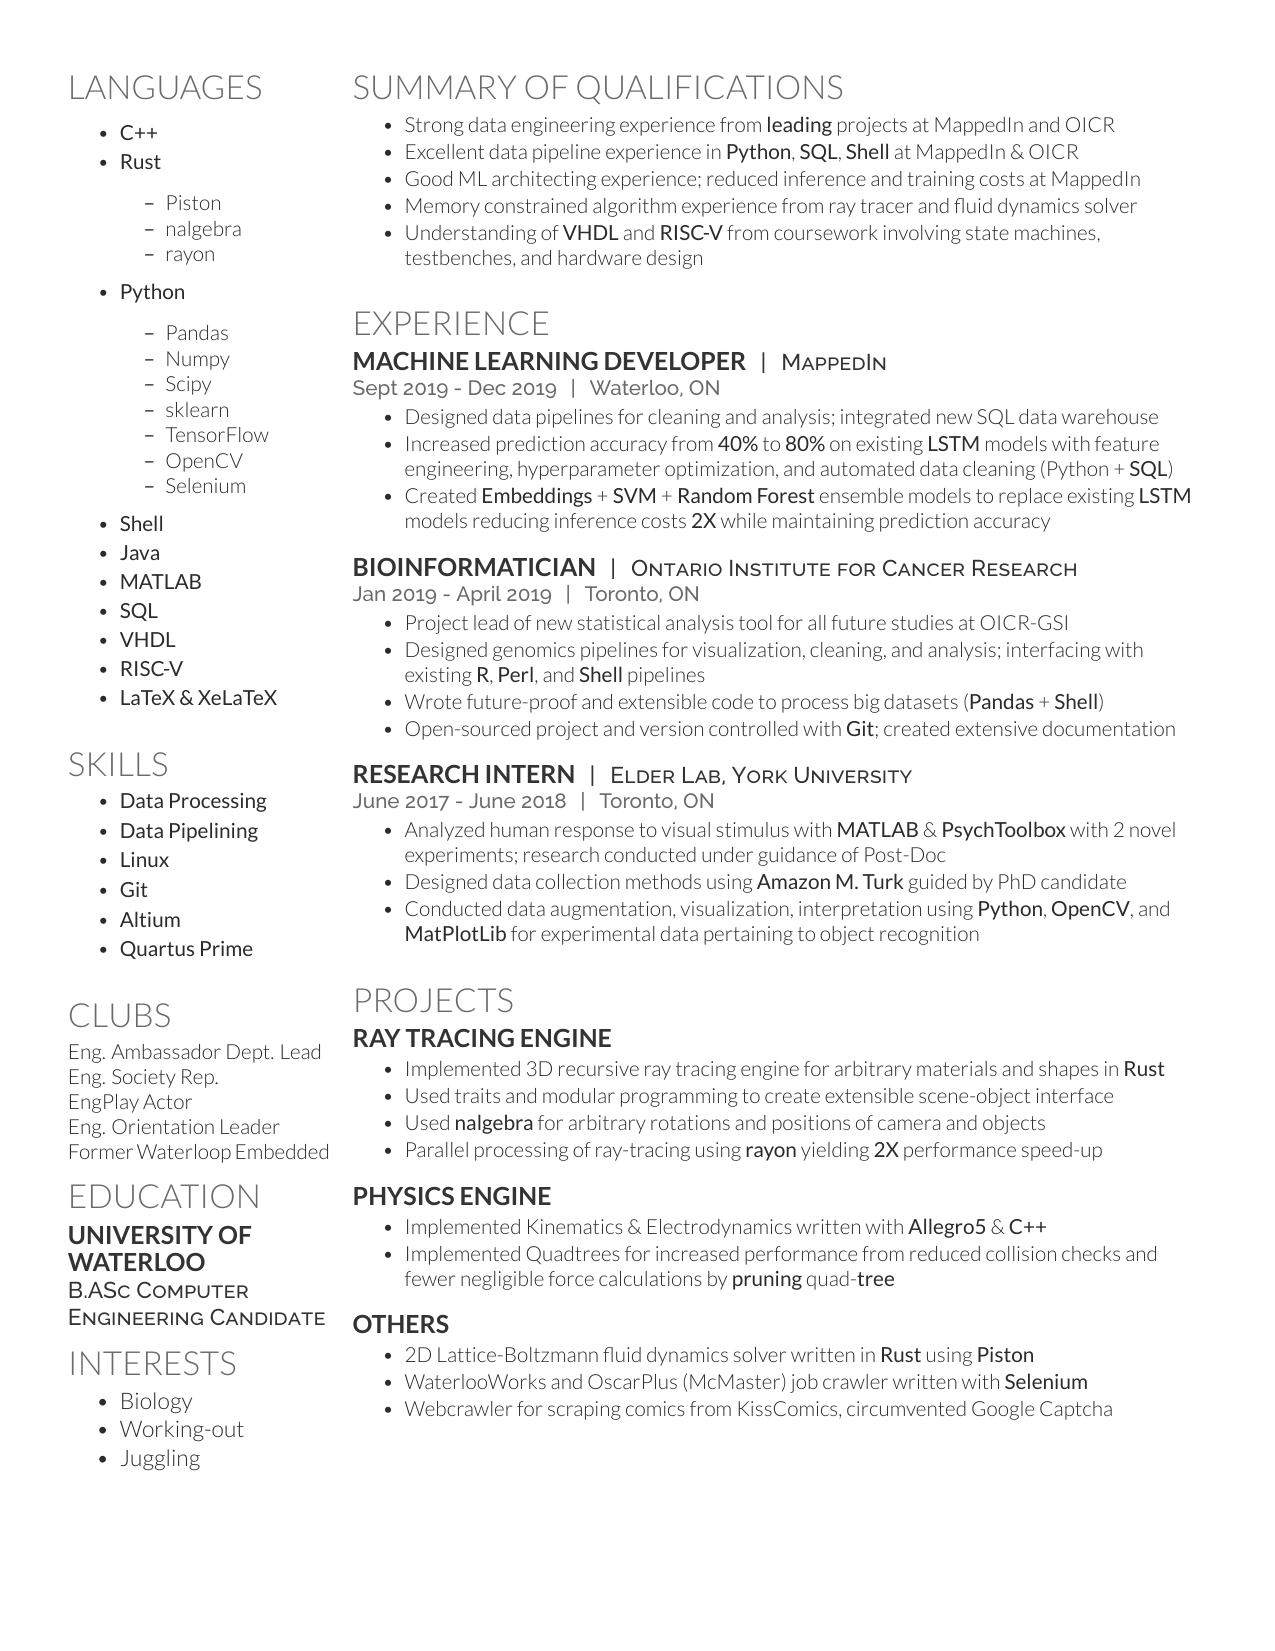
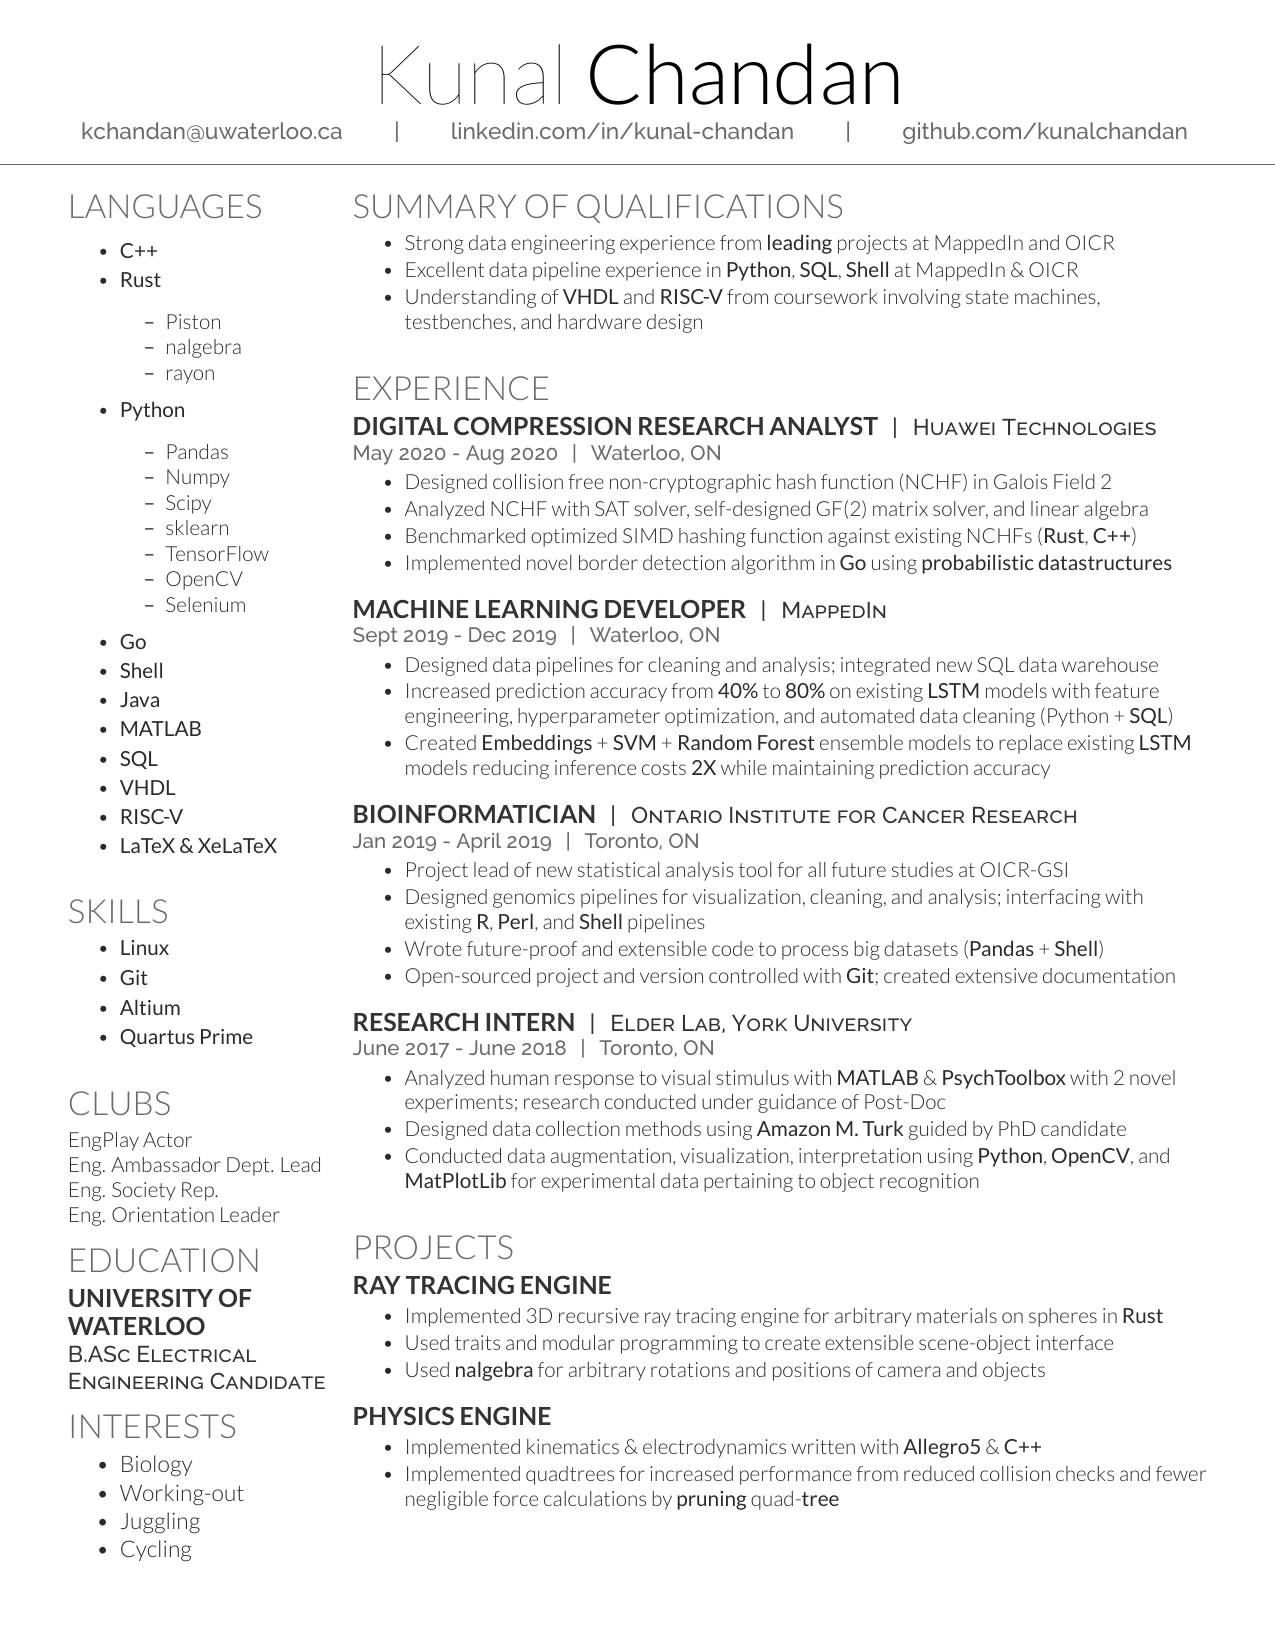
Updated Pre-app resume

Changed region(s): [[0.2753, 0.0309, 0.9176, 0.9267], [0.0306, 0.0309, 0.2447, 0.9576], [0.8871, 0.7723, 0.9176, 0.8031]]

diff --git a/Resume/Resume-Clean/chandan.tex b/Resume/Resume-Clean/chandan.tex
@@ -31,7 +31,7 @@
 \namesection{Kunal}{Chandan}
 {
 	\urlstyle{same}
-	% Honours Computer Engineering Candidate \\
+	% Honours Electrical Engineering Candidate \\
 	\href{mailto:kchandan@uwaterloo.ca}{kchandan@uwaterloo.ca} \qquad
 	| \qquad
 	\href{https://www.linkedin.com/in/kunal-chandan/}{linkedin.com/in/kunal-chandan} \qquad
@@ -73,6 +73,7 @@
 				\item OpenCV
 				\item Selenium
 			\end{itemize}
+		\item \textbf{Go}
 		\item \textbf{Shell}
 		\item \textbf{Java}
 		\item \textbf{MATLAB}
@@ -102,8 +103,7 @@
 EngPlay Actor \\
 Eng. Ambassador Dept. Lead \\
 Eng. Society Rep.\\
-Eng. Orientation Leader \\
-Former Waterloop Embedded
+Eng. Orientation Leader
 
 %%%%%%%%%%%%%%%%%%%%%%%%%%%%%%%%%%%%%%
 %     EDUCATION
@@ -112,7 +112,7 @@ Former Waterloop Embedded
 
 \subsection{University of \\
 Waterloo}
-\descript{B.ASc Computer Engineering Candidate}
+\descript{B.ASc Electrical Engineering Candidate}
 
 %%%%%%%%%%%%%%%%%%%%%%%%%%%%%%%%%%%%%%
 %     Interests
@@ -123,6 +123,7 @@ Waterloo}
 	\item Biology
 	\item Working-out
 	\item Juggling
+        \item Cycling
 \end{itemize}
 \sectionsep
 
@@ -153,8 +154,8 @@ Waterloo}
 \begin{tightemize}
 	\item Strong data engineering experience from \textbf{leading} projects at MappedIn and OICR
 	\item Excellent data pipeline experience in \textbf{Python}, \textbf{SQL}, \textbf{Shell} at MappedIn \& OICR
-	\item Good ML architecting experience; reduced inference and training costs at MappedIn
-	\item Memory constrained algorithm experience from ray tracer and fluid dynamics solver
+%	\item Good ML architecting experience; reduced inference and training costs at MappedIn
+%	\item Memory constrained algorithm experience from ray tracer and fluid dynamics solver
 	\item Understanding of \textbf{VHDL} and \textbf{RISC-V} from coursework involving 
 	state machines, testbenches, and hardware design
 \end{tightemize}
@@ -166,15 +167,26 @@ Waterloo}
 
 \section{Experience}
 
+\runsubsection{Digital Compression Research Analyst}
+\descript{| \, Huawei Technologies}
+\location{May 2020 - Aug 2020 \, | \, Waterloo, ON}
+\begin{tightemize}
+        \item Designed collision free non-cryptographic hash function (NCHF) in Galois Field 2
+        \item Analyzed NCHF with SAT solver, self-designed GF(2) matrix solver, and linear algebra
+        \item Benchmarked optimized SIMD hashing function against existing NCHFs (\textbf{Rust}, \textbf{C++})
+        \item Implemented novel border detection algorithm in \textbf{Go} using \textbf{probabilistic datastructures}
+\end{tightemize}
+\sectionsep
+
 \runsubsection{Machine Learning Developer}
 \descript{| \, MappedIn}
 \location{Sept 2019 - Dec 2019 \, | \, Waterloo, ON}
 \begin{tightemize}
         \item Designed data pipelines for cleaning and analysis; integrated new SQL data warehouse
-		\item Increased prediction accuracy from \textbf{40\%} to \textbf{80\%} on existing \textbf{LSTM} 
-		models with feature engineering, hyperparameter optimization, and automated data cleaning (Python + \textbf{SQL})
-		\item Created \textbf{Embeddings} + \textbf{SVM} + \textbf{Random Forest} ensemble models to replace existing 
-		\textbf{LSTM} models reducing inference costs \textbf{2X} while maintaining prediction accuracy
+        \item Increased prediction accuracy from \textbf{40\%} to \textbf{80\%} on existing \textbf{LSTM} 
+  models with feature engineering, hyperparameter optimization, and automated data cleaning (Python + \textbf{SQL})
+        \item Created \textbf{Embeddings} + \textbf{SVM} + \textbf{Random Forest} ensemble models to replace existing 
+  \textbf{LSTM} models reducing inference costs \textbf{2X} while maintaining prediction accuracy
 \end{tightemize}
 \sectionsep
 
@@ -212,10 +224,10 @@ Waterloo}
 \descript{ }
 \location{ }
 \begin{tightemize}
-	\item Implemented 3D recursive ray tracing engine for arbitrary materials and shapes in \textbf{Rust}
+	\item Implemented 3D recursive ray tracing engine for arbitrary materials on spheres in \textbf{Rust}
 	\item Used traits and modular programming to create extensible scene-object interface
 	\item Used \textbf{nalgebra} for arbitrary rotations and positions of camera and objects 
-	\item Parallel processing of ray-tracing using \textbf{rayon} yielding \textbf{2X} performance speed-up
+%	\item Parallel processing of ray-tracing using \textbf{rayon} yielding \textbf{2X} performance speed-up
 \end{tightemize}
 \sectionsep
 
@@ -223,21 +235,21 @@ Waterloo}
 \descript{ }
 \location{ }
 \begin{tightemize}
-	\item Implemented Kinematics \& Electrodynamics written with \textbf{Allegro5} \& \textbf{C++}
-	\item Implemented Quadtrees for increased performance from reduced collision checks and fewer 
+	\item Implemented kinematics \& electrodynamics written with \textbf{Allegro5} \& \textbf{C++}
+	\item Implemented quadtrees for increased performance from reduced collision checks and fewer 
 	negligible force calculations by \textbf{pruning} quad-\textbf{tree}
 \end{tightemize}
 \sectionsep
 
-\runsubsection{\href{https://github.com/kunalchandan/}{Others}}
-\descript{ }
-\location{ }
-\begin{tightemize}
-	\item 2D Lattice-Boltzmann fluid dynamics solver written in \textbf{Rust} using \textbf{Piston}
-	\item WaterlooWorks and OscarPlus (McMaster) job crawler written with \textbf{Selenium}
-	\item Webcrawler for scraping comics from KissComics, circumvented Google Captcha
-\end{tightemize}
-\sectionsep
+%\runsubsection{\href{https://github.com/kunalchandan/}{Others}}
+%\descript{ }
+%\location{ }
+%\begin{tightemize}
+%	\item 2D Lattice-Boltzmann fluid dynamics solver written in \textbf{Rust} using \textbf{Piston}
+%	\item WaterlooWorks and OscarPlus (McMaster) job crawler written with \textbf{Selenium}
+%	\item Webcrawler for scraping comics from KissComics, circumvented Google Captcha
+%\end{tightemize}
+%\sectionsep
 
 % %%%%%%%%%%%%%%%%%%%%%%%%%%%%%%%%%%%%%%
 % %     AWARDS
